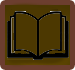
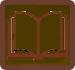
add hover for button

Changed region(s): [[0.08, 0.1429, 0.9333, 0.8571]]

diff --git a/content/game.css b/content/game.css
@@ -559,3 +559,15 @@ body.game-over {
 .game-extra img{
 	cursor: pointer;
 }
+.btn.upgrade img:hover,
+.btn.add img:hover{
+	box-shadow: -1px -2px 0px gray inset; 
+}
+.game-extra img,
+.main-control img{
+	transition: 2s;
+}
+.game-extra img:hover,
+.main-control img:hover{
+	transform: rotate(360deg); 
+}
